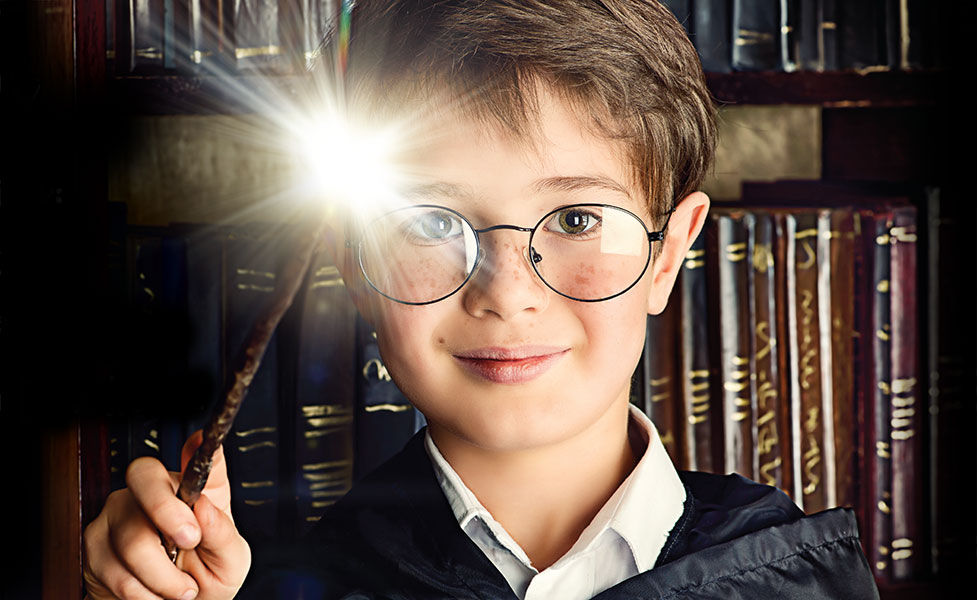
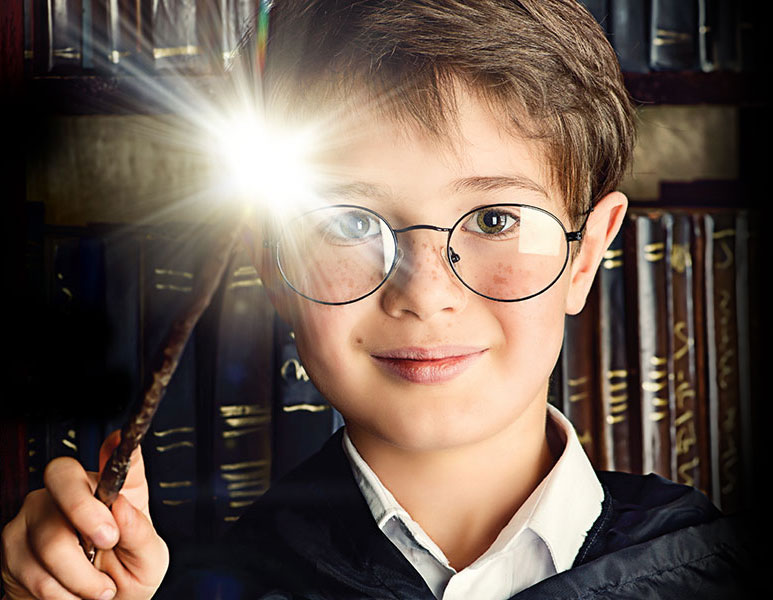
reformatted for flexbox

diff --git a/error/index.html b/error/index.html
@@ -136,6 +136,35 @@ e.async=true;var t=document.getElementsByTagName("script")[0];t.parentNode.inser
 	font-family: 'Ruge Boogie', cursive;
 	font-size: 2.6em;
 }
+.box-item-wrapper {
+	display: flex;
+	align-items: center;
+	justify-content: center;
+}
+.box-item:nth-of-type(1) {
+	order: 2;
+	width: 60%;
+}
+.box-item:nth-of-type(2) {
+	order: 1;
+	padding: 0 40px 0 0;
+	text-align: right;
+}
+
+@media (max-width: 992px) {
+.box-item:nth-of-type(1) {
+	order: 1;
+}
+.box-item:nth-of-type(2) {
+	order: 2;
+	padding: 15px 0 35px;
+	text-align: center;
+}
+
+.box-item-wrapper {
+	flex-direction: column;
+}
+}
 </style>
 </head>
 <body>
@@ -162,7 +191,7 @@ height="0" width="0" style="display:none;visibility:hidden"></iframe>
     <div class="row no-gutter">
       <div class="col-sm-5">
         <div class="cp_header_client_area">
-          <div class="logo"> <a href="/"><img class="img-responsive" src="../dcl-logo.png" alt="Douglas County Libraries"></a> </div>
+          <div class="logo"> <a href="/"><img class="img-responsive" src="https://dcl.org/dcl-logo.png" alt="Douglas County Libraries"></a> </div>
         </div>
       </div>
       <div class="col-sm-6 col-sm-push-1">
@@ -173,7 +202,7 @@ height="0" width="0" style="display:none;visibility:hidden"></iframe>
             <span class="input-group-btn">
             <button type="submit" value="search" class="btn btn-search"><i class="fas fa-search"></i></button>
             </span> </div>
-          <div class="text-right"><span class="small margin-right-80"><a href="../search/">Website Search</a></span><span class="small"><a href="https://dcl.bibliocommons.com/search">Advanced Search</a></span></div>
+          <div class="text-right"><span class="small margin-right-80"><a href="https://dcl.org/search/">Website Search</a></span><span class="small"><a href="https://dcl.bibliocommons.com/search">Advanced Search</a></span></div>
         </form>
       </div>
     </div>
@@ -193,39 +222,39 @@ height="0" width="0" style="display:none;visibility:hidden"></iframe>
           <li><a href="https://dcl.bibliocommons.com/explore/featured_lists/staff_picks">Staff Picks</a></li>
         </ul>
       </li>
-      <li class="whats-new-active"><a href="../whats-new">What's New</a> </li>
+      <li class="whats-new-active"><a href="https://dcl.org/whats-new">What's New</a> </li>
       <li class="dropdown using-the-library-active"> <a data-target="#" href="#" data-toggle="dropdown" role="button" aria-haspopup="true" aria-expanded="false">Library Info <span class="glyphicon glyphicon-menu-down" aria-hidden="true"></span> </a>
         <ul class="dropdown-menu">
-          <li><a href="../locations/">Hours & Locations</a></li>
-          <li><a href="../library-basics/">Library Basics</a></li>
-          <li> <a href="../library-perks/">Library Perks</a> </li>
-          <li><a href="../book-clubs/">Book Clubs</a></li>
-          <li><a href="../staff-recommendations/">Staff Recommendations</a></li>
-          <li><a href="../business/">DCL for Business</a></li>
-          <li><a href="../adult-education/">Adult Education & Test Prep</a></li>
+          <li><a href="https://dcl.org/locations/">Hours & Locations</a></li>
+          <li><a href="https://dcl.org/library-basics/">Library Basics</a></li>
+          <li> <a href="https://dcl.org/library-perks/">Library Perks</a> </li>
+          <li><a href="https://dcl.org/book-clubs/">Book Clubs</a></li>
+          <li><a href="https://dcl.org/staff-recommendations/">Staff Recommendations</a></li>
+          <li><a href="https://dcl.org/business/">DCL for Business</a></li>
+          <li><a href="https://dcl.org/adult-education/">Adult Education & Test Prep</a></li>
         </ul>
       </li>
       <li class="dropdown kids-teens-active"> <a data-target="#" href="#" data-toggle="dropdown" role="button" aria-haspopup="true" aria-expanded="false">Kids & Teens <span class="glyphicon glyphicon-menu-down" aria-hidden="true"></span></a>
         <ul class="dropdown-menu" role="menu">
-          <li><a href="../storytime/">Storytime</a></li>
-          <li><a href="../read-listen-watch/">Read, Listen, Watch</a></li>
-          <li><a href="../kids-events/">Kids Events</a></li>
-          <li><a href="../parents-teachers/">Parents & Teachers</a></li>
-          <li><a href="../research/students/">Homework Help</a></li>
+          <li><a href="https://dcl.org/storytime/">Storytime</a></li>
+          <li><a href="https://dcl.org/read-listen-watch/">Read, Listen, Watch</a></li>
+          <li><a href="https://dcl.org/kids-events/">Kids Events</a></li>
+          <li><a href="https://dcl.org/parents-teachers/">Parents & Teachers</a></li>
+          <li><a href="https://dcl.org/research/students/">Homework Help</a></li>
           <li><a href="http://blogs.douglascountylibraries.org/teens/">Teens</a></li>
         </ul>
       </li>
-      <li class="digital-media-active"><a href="../digital-media/">Digital Media</a> </li>
-      <li class="reserve-a-space-active"><a href="../reserve-a-space/">Reserve a Space</a> </li>
+      <li class="digital-media-active"><a href="https://dcl.org/digital-media/">Digital Media</a> </li>
+      <li class="reserve-a-space-active"><a href="https://dcl.org/reserve-a-space/">Reserve a Space</a> </li>
       <li class="dropdown events-active"> <a data-target="#" href="#" data-toggle="dropdown" role="button" aria-haspopup="true" aria-expanded="false">Library Events <span class="glyphicon glyphicon-menu-down" aria-hidden="true"></span></a>
         <ul class="dropdown-menu" role="menu">
-          <li><a href="../authors-events/">Authors & Events</a></li>
-          <li><a href="../kids-events/">Kids Events</a></li>
+          <li><a href="https://dcl.org/authors-events/">Authors & Events</a></li>
+          <li><a href="https://dcl.org/kids-events/">Kids Events</a></li>
         </ul>
       </li>
       <li class="dropdown research-active"> <a data-target="#" href="#" data-toggle="dropdown" role="button" aria-haspopup="true" aria-expanded="false">Research <span class="glyphicon glyphicon-menu-down" aria-hidden="true"></span></a>
         <ul class="dropdown-menu" role="menu">
-          <li><a href="../research/">Research Databases</a></li>
+          <li><a href="https://dcl.org/research/">Research Databases</a></li>
           <li><a href="https://archives.dcl.org/" target="_blank">Archives & Local History</a></li>
         </ul>
       </li>
@@ -235,7 +264,7 @@ height="0" width="0" style="display:none;visibility:hidden"></iframe>
 <!-- End Desktop Navbar --> 
 <!-- Mobile Navbar, Logo and Search -->
 <nav class="dcl-mobile-navbar navbar navbar-default">
-  <div class="container-md"> <a href="/"><img class="margin-left-15" src="../dcl-responsive-logo.png" alt="DCL Logo"></a> <a href="#" role="button" data-toggle="modal" data-target="#nav-modal"><i class="fas fa-bars"></i></a> 
+  <div class="container-md"> <a href="/"><img class="margin-left-15" src="https://dcl.org/dcl-responsive-logo.png" alt="DCL Logo"></a> <a href="#" role="button" data-toggle="modal" data-target="#nav-modal"><i class="fas fa-bars"></i></a> 
     <!-- Nav Modal -->
     <div class="modal fade" id="nav-modal" role="dialog" aria-labelledby="myModalLabel" aria-hidden="true">
       <div class="dcl-mobile-nav modal-dialog">
@@ -254,39 +283,39 @@ height="0" width="0" style="display:none;visibility:hidden"></iframe>
                   <li><a href="https://dcl.bibliocommons.com/explore/featured_lists/staff_picks">Staff Picks</a></li>
                 </ul>
               </li>
-              <li class="whats-new-active mobile-nav-heading"><a href="../whats-new">What's New</a> </li>
+              <li class="whats-new-active mobile-nav-heading"><a href="https://dcl.org/whats-new">What's New</a> </li>
               <li class="mobile-nav-heading"> <a href="#" data-toggle="collapse" data-target="#using-the-library">Library Info <span class="glyphicon glyphicon-menu-down" aria-hidden="true"></span> </a>
                 <ul id="using-the-library" class="nav mobile-nav-list collapse">
-                  <li><a href="../locations/">Hours & Locations</a></li>
-                  <li><a href="../library-basics/">Library Basics</a></li>
-                  <li><a href="../library-perks/">Get a Library Card</a> </li>
-                  <li><a href="../book-clubs/">Book Clubs</a></li>
-                  <li><a href="../staff-recommendations/">Staff Recommendations</a></li>
-                  <li><a href="../business/">DCL for Business</a></li>
-                  <li><a href="../adult-education/">Adult Education & Test Prep</a></li>
+                  <li><a href="https://dcl.org/locations/">Hours & Locations</a></li>
+                  <li><a href="https://dcl.org/library-basics/">Library Basics</a></li>
+                  <li><a href="https://dcl.org/library-perks/">Get a Library Card</a> </li>
+                  <li><a href="https://dcl.org/book-clubs/">Book Clubs</a></li>
+                  <li><a href="https://dcl.org/staff-recommendations/">Staff Recommendations</a></li>
+                  <li><a href="https://dcl.org/business/">DCL for Business</a></li>
+                  <li><a href="https://dcl.org/adult-education/">Adult Education & Test Prep</a></li>
                 </ul>
               </li>
               <li class="mobile-nav-heading"> <a href="#" data-toggle="collapse" data-target="#kids-teens">Kids & Teens <span class="glyphicon glyphicon-menu-down" aria-hidden="true"></span> </a>
                 <ul id="kids-teens" class="nav mobile-nav-list collapse">
-                  <li><a href="../storytime/">Storytime</a></li>
-                  <li><a href="../read-listen-watch/">Read, Listen, Watch</a></li>
-                  <li><a href="../kids-events/">Kids Events</a></li>
-                  <li><a href="../parents-teachers/">Parents & Teachers</a></li>
-                  <li><a href="../research/students/">Homework Help</a></li>
+                  <li><a href="https://dcl.org/storytime/">Storytime</a></li>
+                  <li><a href="https://dcl.org/read-listen-watch/">Read, Listen, Watch</a></li>
+                  <li><a href="https://dcl.org/kids-events/">Kids Events</a></li>
+                  <li><a href="https://dcl.org/parents-teachers/">Parents & Teachers</a></li>
+                  <li><a href="https://dcl.org/research/students/">Homework Help</a></li>
                   <li><a href="http://blogs.douglascountylibraries.org/teens/">Teens</a></li>
                 </ul>
               </li>
-              <li class="digital-media-active mobile-nav-heading"><a href="../digital-media/">Digital Media</a> </li>
-              <li class="reserve-a-space-active mobile-nav-heading"><a href="../reserve-a-space/">Reserve a Space</a> </li>
+              <li class="digital-media-active mobile-nav-heading"><a href="https://dcl.org/digital-media/">Digital Media</a> </li>
+              <li class="reserve-a-space-active mobile-nav-heading"><a href="https://dcl.org/reserve-a-space/">Reserve a Space</a> </li>
               <li class="mobile-nav-heading"> <a href="#" data-toggle="collapse" data-target="#library-events">Library Events <span class="glyphicon glyphicon-menu-down" aria-hidden="true"></span> </a>
                 <ul id="library-events" class="nav mobile-nav-list collapse">
-                  <li><a href="../authors-events/">Authors & Events</a></li>
-                  <li><a href="../kids-events/">Kids Events</a></li>
+                  <li><a href="https://dcl.org/authors-events/">Authors & Events</a></li>
+                  <li><a href="https://dcl.org/kids-events/">Kids Events</a></li>
                 </ul>
               </li>
               <li class="mobile-nav-heading"> <a href="#" data-toggle="collapse" data-target="#research">Research <span class="glyphicon glyphicon-menu-down" aria-hidden="true"></span> </a>
                 <ul id="research" class="nav mobile-nav-list collapse">
-                  <li><a href="../research/">Research Databases</a></li>
+                  <li><a href="https://dcl.org/research/">Research Databases</a></li>
                   <li><a href="https://archives.dcl.org/" target="_blank">Archives & Local History</a></li>
                 </ul>
               </li>
@@ -299,7 +328,7 @@ height="0" width="0" style="display:none;visibility:hidden"></iframe>
   <div id="mobile-search" class="collapse bg-gray-10">
     <div class="container">
       <form id="searchFormTwo" class="search" action="https://dcl.bibliocommons.com/search">
-        <div class="text-right clearfix margin-bottom-5"><span class="small margin-right-60"><a href="../search/">Website Search</a></span><span class="small"><a href="https://dcl.bibliocommons.com/search">Advanced Search</a></span></div>
+        <div class="text-right clearfix margin-bottom-5"><span class="small margin-right-60"><a href="https://dcl.org/search/">Website Search</a></span><span class="small"><a href="https://dcl.bibliocommons.com/search">Advanced Search</a></span></div>
         <div class="input-group">
           <input type="hidden" value="smart" name="t" id="search_param_two">
           <input placeholder="Search" type="text" name="q" class="form-control">
@@ -316,40 +345,40 @@ height="0" width="0" style="display:none;visibility:hidden"></iframe>
     <div id="global-alert" class="container-md" style="display:none;"></div>
   </div>
   <div class="item row bg-black">
-    <div class="container ruge-boogie">
-      <div class="col-md-8 col-md-push-4 equal-height"><img src="https://www.dcl.org/shared-assets/images/harry-potter.jpg" alt="Harry Potter" class="img-responsive image-center"></div>
-      <div class="col-md-4 col-md-pull-8 padding-bottom-15 text-right-md text-center equal-height flex-center">
-        <h1 class="white no-margin-bottom">404 Error:</h1>
+    <div class="container ruge-boogie box-item-wrapper">
+      <div class="box-item"><img src="https://www.dcl.org/shared-assets/images/harry-potter.jpg" alt="Harry Potter" class="img-responsive image-center"></div>
+      <div class="box-item">
+        <h1 class="white no-margin">404 Error:</h1>
         <h1 class="white no-margin-top">Page not found</h1>
         <h5 class="white">Get a note from professor McGonagall and <a class="white text-underline" href="\">go home</a> or <a class="white text-underline" href="#" onclick="history.go(-1)">go back</a>.</h5>
       </div>
     </div>
   </div>
   <div style="background: #040707;" class="item row padding-top-30 padding-bottom-40">
-    <div class="container righteous">
-      <div class="col-md-4 col-md-push-6 equal-height"><img src="https://www.dcl.org/shared-assets/images/hunger-games.jpg" alt="Hunger Games" class="img-responsive image-center"></div>
-      <div class="col-md-4 col-md-pull-2 padding-bottom-15 text-right-md text-center equal-height flex-center">
-        <h2 class="gold no-margin-bottom">Page not found.</h2>
+    <div class="container righteous box-item-wrapper">
+      <div class="box-item"><img src="https://www.dcl.org/shared-assets/images/hunger-games.jpg" alt="Hunger Games" class="img-responsive image-center"></div>
+      <div class="box-item">
+        <h2 class="gold no-margin">Page not found.</h2>
         <h1 class="gold">The odds must not be in your favor today.</h1>
         <h5 class="gold"><a class="gold text-underline" href="\">Go home</a> or <a class="white text-underline" href="#" onclick="history.go(-1)">go back</a>.</h5>
       </div>
     </div>
   </div>
   <div style="background: #040707;" class="item row padding-bottom-30">
-    <div class="container vidaloka">
-      <div class="col-md-6 col-md-push-6 equal-height"><img src="https://www.dcl.org/shared-assets/images/sherlock.jpg" alt="Sherlock" class="img-responsive image-center"></div>
-      <div class="col-md-6 col-md-pull-6 padding-bottom-15 text-right-md text-center equal-height flex-center">
-        <h1 class="white no-margin-bottom">404 page not found.</h1>
+    <div class="container vidaloka box-item-wrapper">
+      <div class="box-item"><img src="https://www.dcl.org/shared-assets/images/sherlock.jpg" alt="Sherlock" class="img-responsive image-center"></div>
+      <div class="box-item">
+        <h1 class="white no-margin">404 page not found.</h1>
         <h2 class="white">It's a mystery! We'll get our best man on the case.</h2>
         <h5 class="white">In the meantime, <a class="white text-underline" href="\">go home</a> or <a class="white text-underline" href="#" onclick="history.go(-1)">go back</a>.</h5>
       </div>
     </div>
   </div>
   <div style="background: #060709;" class="item row">
-    <div class="container limelight">
-      <div class="col-md-6 col-md-push-6 equal-height"><img src="https://www.dcl.org/shared-assets/images/oz.jpg" alt="Wizard of Oz" class="img-responsive image-center"></div>
-      <div class="col-md-6 col-md-pull-6 padding-bottom-30 text-right-md text-center equal-height flex-center">
-        <h1 class="green no-margin-bottom">404 Error</h1>
+    <div class="container limelight box-item-wrapper">
+      <div class="box-item"><img src="https://www.dcl.org/shared-assets/images/oz.jpg" alt="Wizard of Oz" class="img-responsive image-center"></div>
+      <div class="box-item">
+        <h1 class="green no-margin">404 Error</h1>
         <h2 class="green">This page has melted!</h2>
         <h3 class="green">Click your heels to <a class="white text-underline" href="#" onclick="history.go(-1)">go back</a> or <a class="green text-underline" href="/">go home now</a>.</h3>
       </div>
